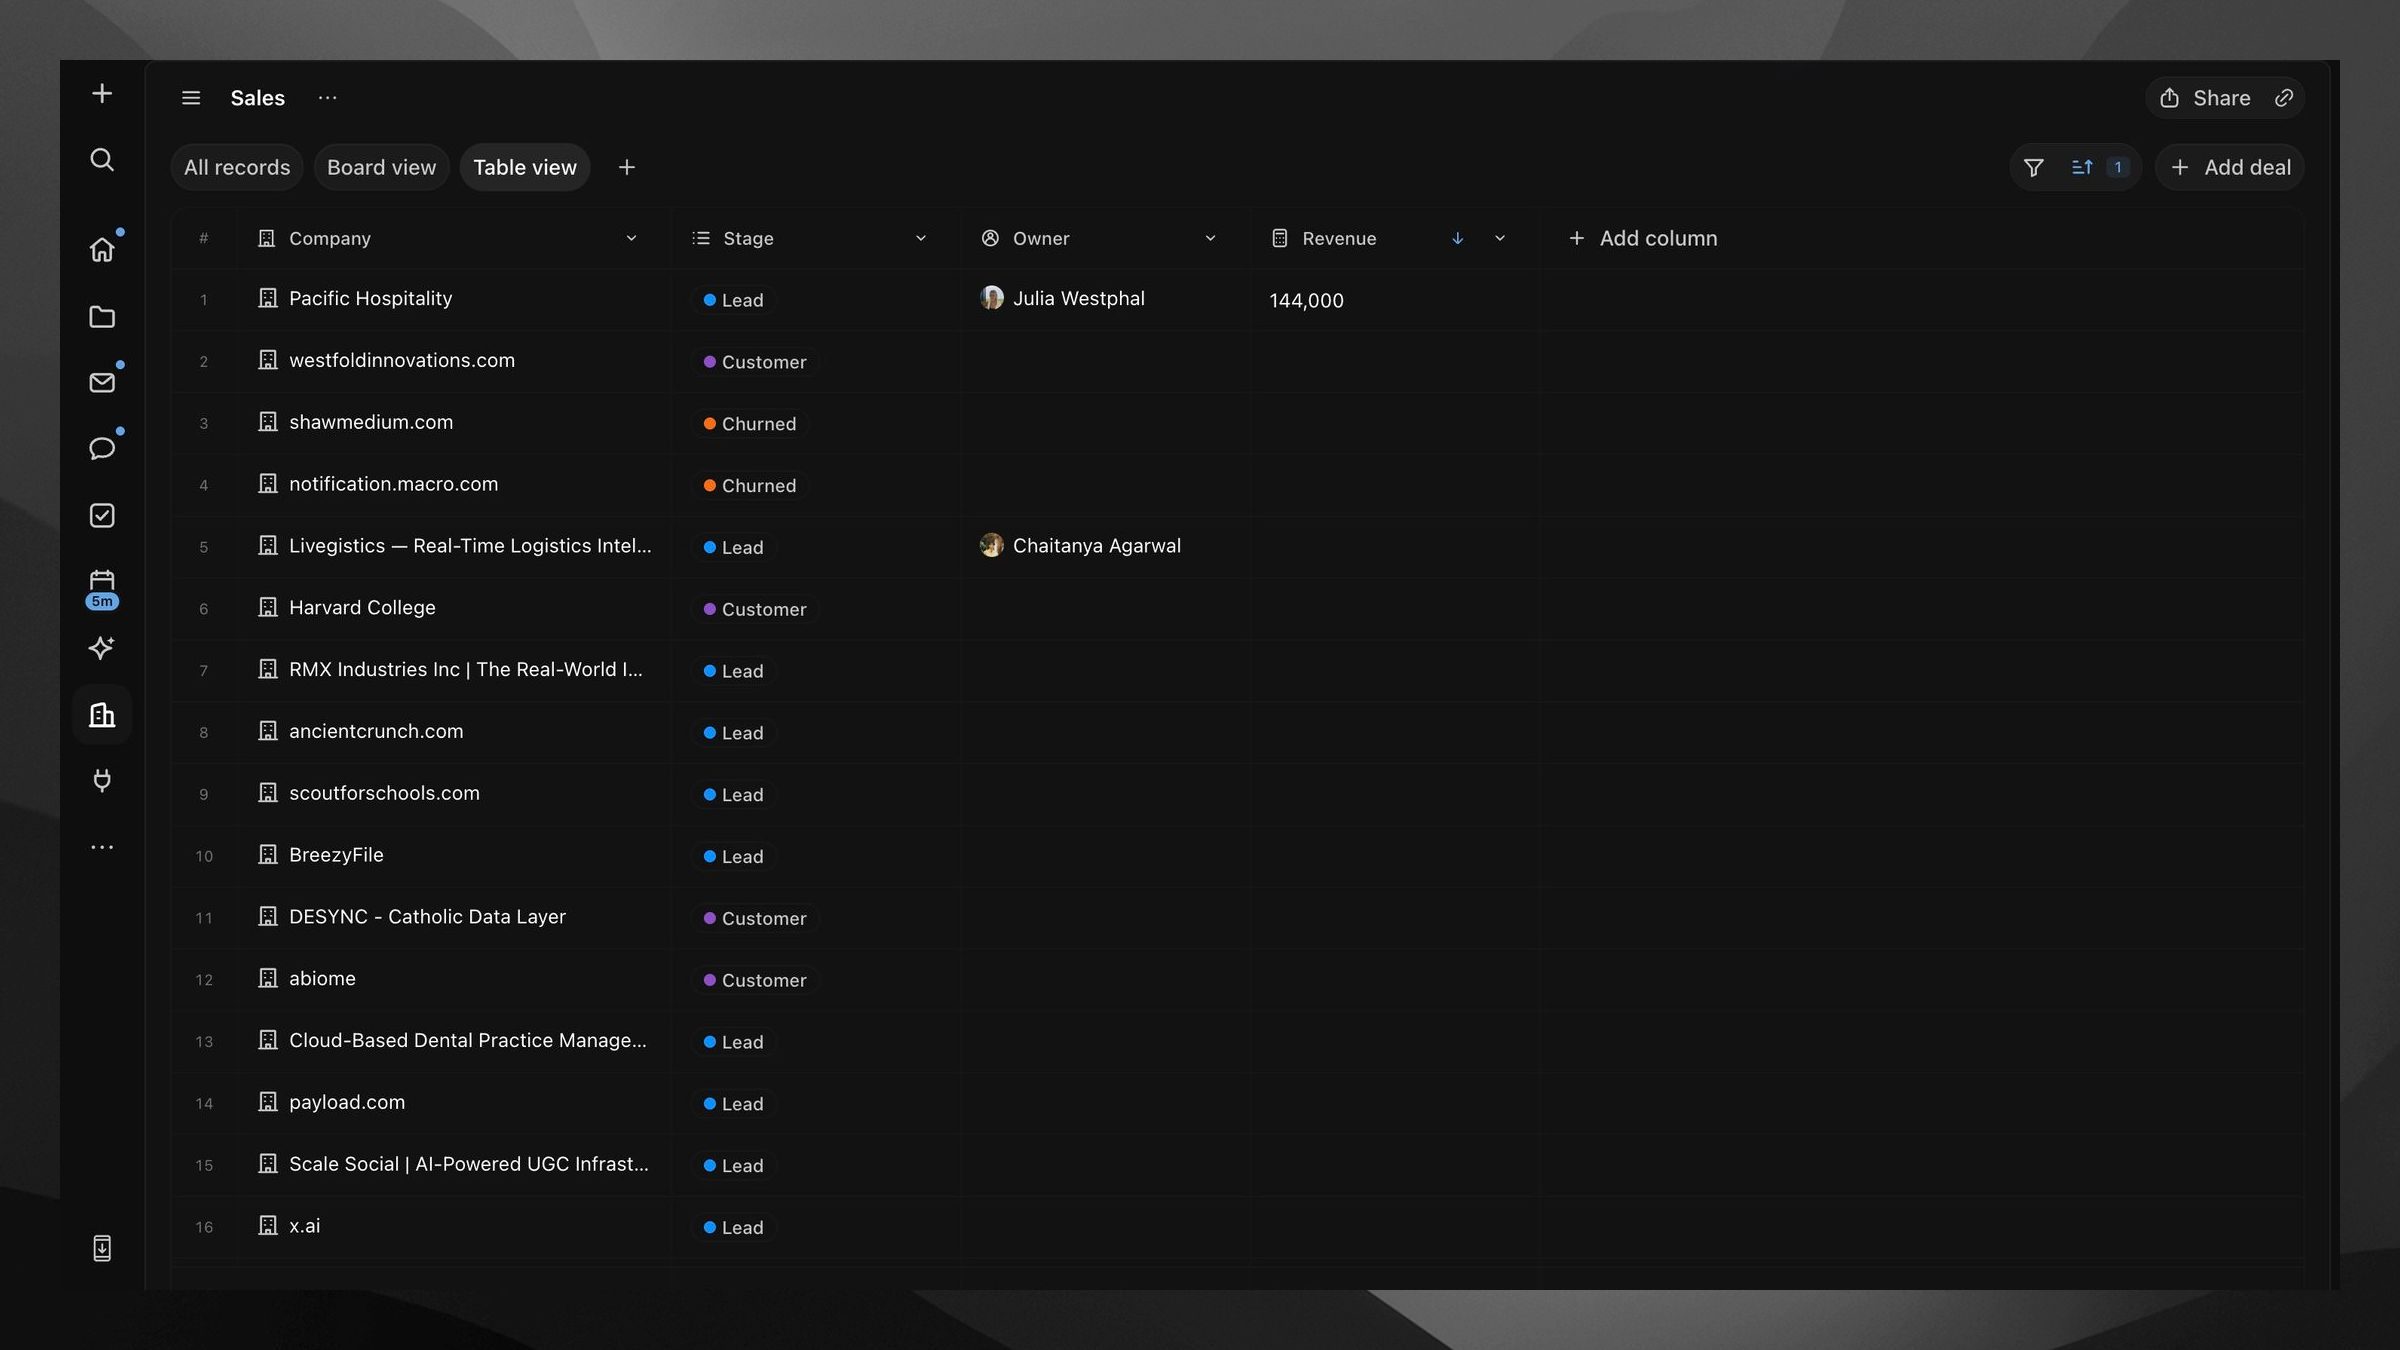
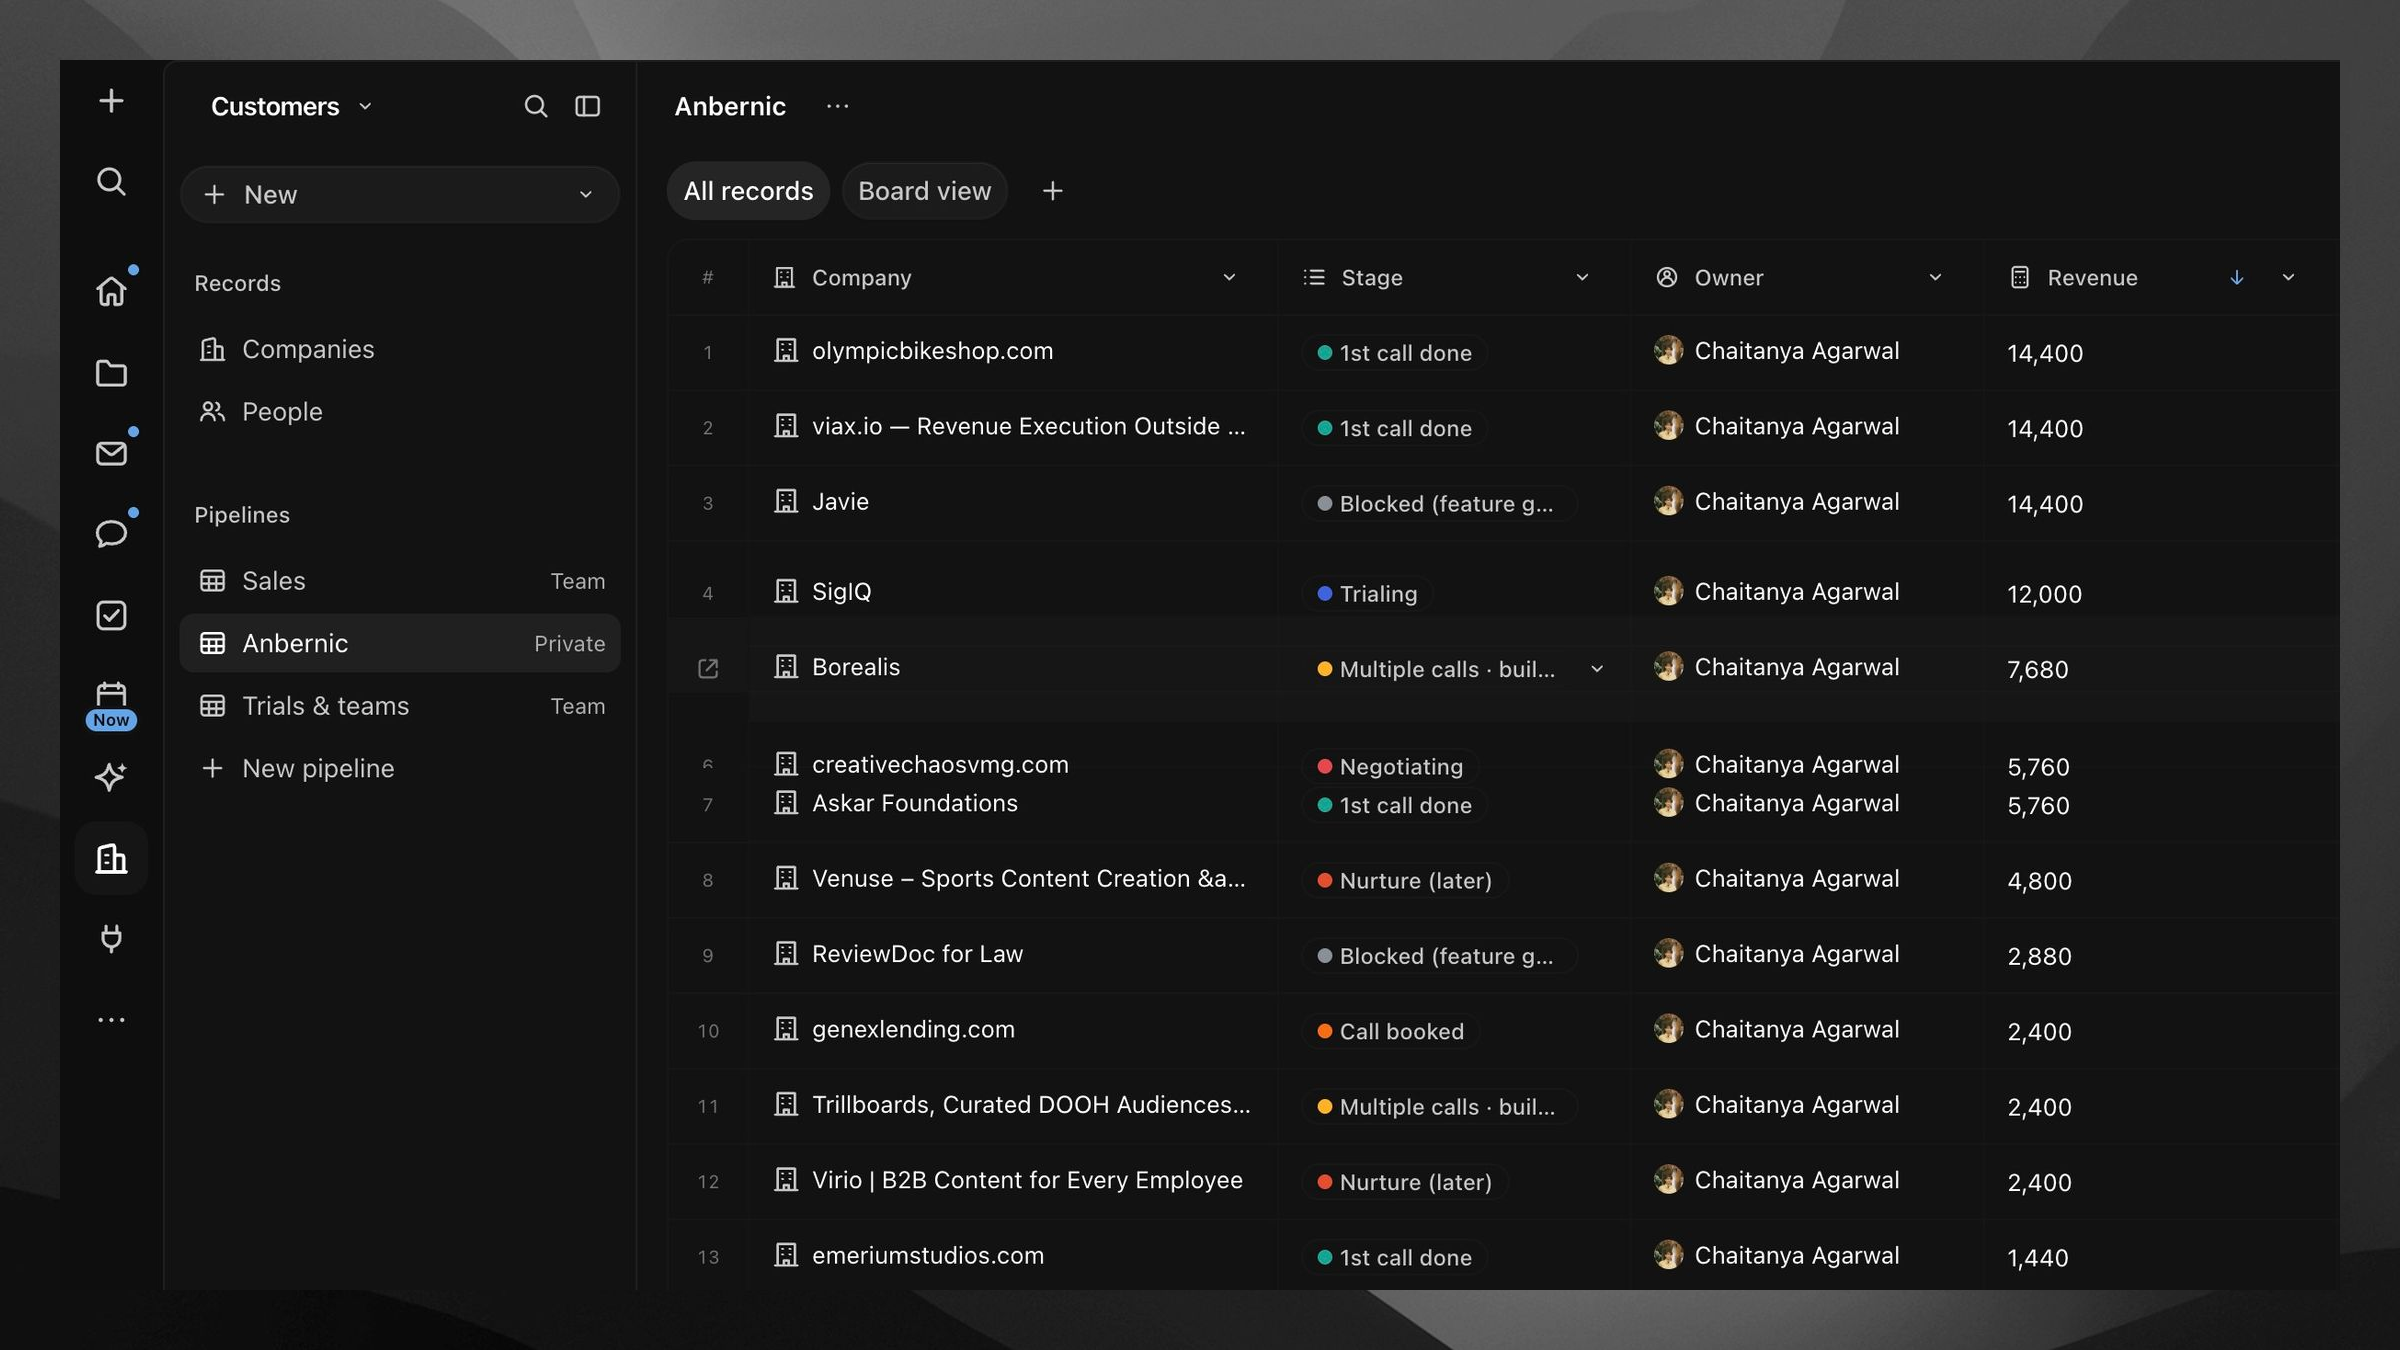
docs(readme): restore task context and populated crm view
Why: The previous captures showed unstarted tasks and sparse CRM records.

What: Restore the task split view, show a populated pipeline, and introduce the workspace with a theme-aware heading.

diff --git a/README.md b/README.md
@@ -1,4 +1,5 @@
 <div align="center">
+  <h2>The unified workspace for your team</h2>
   <a target="_blank" href="https://macro.com">
     <img width="2400" height="1100" alt="Macro — an agent request in a team channel beside its linked code changes" src=".github/readme/header.png" />
   </a>
@@ -105,7 +106,7 @@ The core problem with traditional issue trackers or project management tools is 
 
 The solution isn't to forgo tracking entirely. We tried that and it was a different form of chaos. **The solution we've found is lightweight issues tightly coupled to your channels and DMs, so that issue tracking naturally occurs where the conversation itself happens.**
 
-![Macro search project tasks grouped by assignee, with statuses, priorities, and project links](.github/readme/framed/tasks.png)
+![Tasks with varied statuses and assignees beside a completed task, linked discussion, and code change](.github/readme/framed/tasks.png)
 
 Creating tasks in Macro is easy. Where possible, tasks created are bidirectionally linked to the creating context (e.g. a customer email) so the full chain is auditable from "why are we doing this" → task → agent → pull request, all in one system.
 
@@ -160,7 +161,7 @@ The problem with standalone CRM is the same as with task trackers: it's not up t
 
 **Macro fixes this by colocating your CRM with your team chat and email, instead of having a separate system.** When you @mention a company record in a message, your team can click that record to see the latest — it's much faster than navigating to your CRM to find the record, going back to Slack and pasting it in, and this speed difference makes all the difference. Secondly, @mentioning a Company/Contact creates a bidirectional link between that message and the record, so from the record later you can trace the conversations that happened. This fixes the core issue we had with Attio/HubSpot/Salesforce: the actual important conversation about a deal happens not in the CRM but over messages. Macro makes this a feature rather than making you feel disorganized about it. It's not your fault, it was the CRM's fault!
 
-![Macro Sales pipeline in table view with company, stage, owner, and revenue columns](.github/readme/framed/crm.png)
+![Macro populated CRM pipeline in table view with company, stage, owner, and revenue columns](.github/readme/framed/crm.png)
 
 - Customizable sales pipelines and deal stages with board and list views.
 - Company and contact records have their own discussions where your team can leave notes and @mention people and work.

diff --git a/.github/readme/README.md b/.github/readme/README.md
@@ -6,7 +6,8 @@
 split view show a team-channel agent request and its linked code changes.
 The panes are offset vertically with thin borders and soft shadows. The supplied
 Frame 10 full logo is unchanged, downscaled to 402 pixels wide, and placed on a
-small dark backing so it remains visible in both GitHub themes. No added slogan.
+small dark backing so it remains visible in both GitHub themes. The native README
+heading introduces Macro as the unified workspace for your team.
 
 ## Feature screenshots
 
@@ -18,10 +19,13 @@ never stretched, rewritten, or generated.
 - Email: recent Signal inbox overview, not the experimental Focus view or a
   third-party invitation. Login-code and address previews are outside the capture.
 - Chat: the November 4 feature-request conversation, distinct from the header.
-- Tasks, Docs, Agents, Calendar: existing captures reframed consistently.
+- Tasks: restored original split capture with mixed statuses, assigned work, and
+  a completed task with its linked discussion and code change.
+- Docs, Agents, Calendar: existing captures reframed consistently.
 - Databases: full original Donations Example capture, preserving all columns.
-- CRM: fresh Sales table capture with company, stage, owner, and revenue. Sorted
-  by revenue descending; real data is preserved, including empty fields.
+- CRM: user-selected populated pipeline table with company, stage, owner, and
+  revenue, sorted by revenue descending. The viewport ends after revenue;
+  private follow-up notes and contact columns are outside the capture.
 - Calls: An internal group recording, paused near 0:35. People are on
   camera without a screen share. Portrait video and black bars are inherent in
   the recording; the transcript was scrolled independently.
